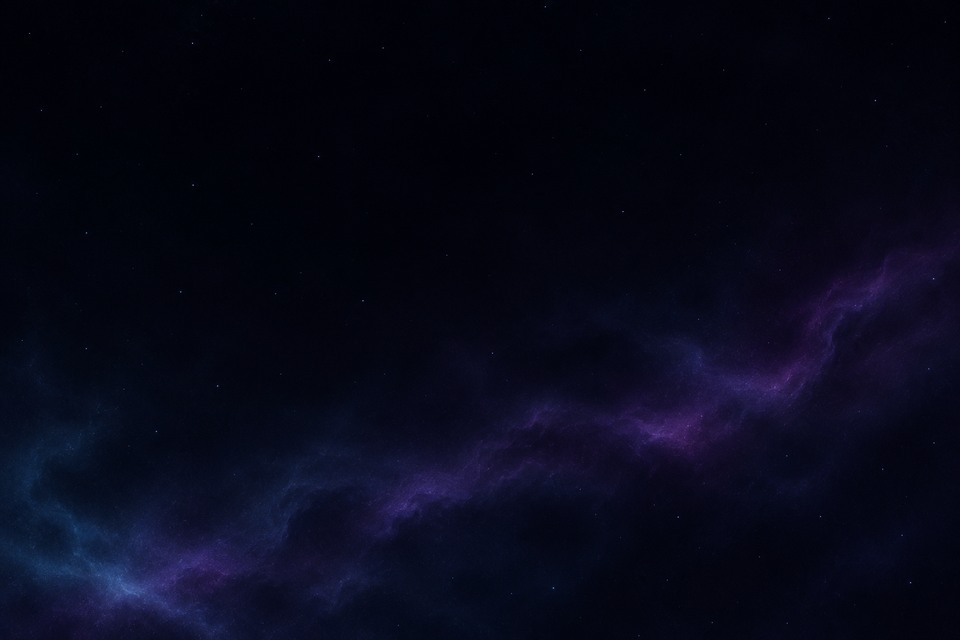
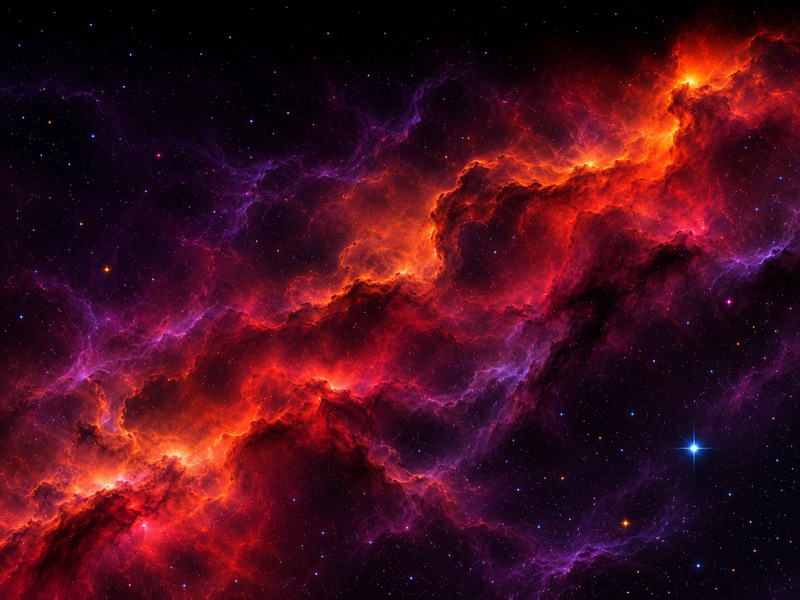
Обновил оформление и назначил буквенные клавиши

diff --git a/graphics.py b/graphics.py
@@ -10,7 +10,6 @@ from game import (
     ASTEROID_RADII,
     EXPLOSION_LIFETIME,
     HEIGHT,
-    START_LIVES,
     WIDTH,
     Game,
 )
@@ -20,23 +19,27 @@ ASSETS = Path(__file__).parent / "assets"
 
 # Скорость фонового слоя в пикселях в секунду и его непрозрачность.
 BACKGROUND_SPEED = 27
-BACKGROUND_OPACITY = 90
-BACKGROUND_ROCKS = 30
+BACKGROUND_OPACITY = 100
+BACKGROUND_ROCKS = 54
 
 # Каждая ячейка атласа содержит отдельный кадр анимации взрыва.
 EXPLOSION_FRAMES = 12
 EXPLOSION_TILE = 112
 
-# Заставка находится в центре. Её прямоугольник служит областью клика.
-SPLASH = pygame.Rect(0, 0, 506, 336)
+# Игровое поле справа от подсказок. Заставка в координатах поля.
+FIELD = pygame.Rect(216, 8, WIDTH, HEIGHT)
+WINDOW_SIZE = FIELD.right + 8, FIELD.bottom + 8
+SPLASH = pygame.Rect(0, 0, 400, 300)
 SPLASH.center = WIDTH // 2, HEIGHT // 2
+START_AREA = SPLASH.move(FIELD.topleft)
 
 # Цвета интерфейса.
 WHITE = (239, 247, 255)
-TEXT_SECONDARY = (177, 197, 223)
 CYAN = (117, 224, 252)
-LINE = (53, 76, 106)
-DARK = (9, 18, 34)
+HUD_GREEN = (70, 255, 53)
+WINDOW_COLOR = (240, 240, 240)
+SIDEBAR_TEXT = (36, 43, 55)
+SIDEBAR_BORDER = (163, 170, 180)
 
 
 def _ship_sprite(thrust: bool) -> pygame.Surface:
@@ -166,29 +169,41 @@ def _explosion_atlas() -> pygame.Surface:
     return atlas
 
 
-def _control_legend(font: pygame.font.Font) -> pygame.Surface:
-    """Подписать клавиши управления, рисуя стрелки независимо от шрифта."""
-    legend = pygame.Surface((364, 26), pygame.SRCALPHA)
-    for x, angle in ((2, 180), (28, 0), (151, -90)):
-        pygame.draw.rect(legend, LINE, (x, 2, 23, 22), 1, 4)
-        center = pygame.Vector2(x + 11, 13)
-        tail = center + pygame.Vector2(-5, 0).rotate(angle)
-        tip = center + pygame.Vector2(5, 0).rotate(angle)
-        wing_top = center + pygame.Vector2(1, -4).rotate(angle)
-        wing_bottom = center + pygame.Vector2(1, 4).rotate(angle)
-        pygame.draw.aaline(legend, CYAN, tail, tip)
-        pygame.draw.aalines(legend, CYAN, False, (wing_top, tip, wing_bottom))
-
-    pygame.draw.rect(legend, LINE, (227, 2, 80, 22), 1, 4)
-    for x, label in (
-        (58, "Поворот"),
-        (181, "Тяга"),
-        (235, "Пробел"),
-        (315, "Огонь"),
-    ):
-        text = font.render(label, True, TEXT_SECONDARY)
-        legend.blit(text, text.get_rect(midleft=(x, 13)))
-    return legend
+def _sidebar(font: pygame.font.Font) -> pygame.Surface:
+    """Подготовить панель подсказок слева от игрового поля."""
+    sidebar = pygame.Surface((FIELD.left - 12, HEIGHT)).convert()
+    sidebar.fill(WINDOW_COLOR)
+    width = sidebar.get_width() - 2
+    top = HEIGHT * 2 // 3
+    sections = (
+        (
+            "Управление",
+            (
+                ("W", "Разгон"),
+                ("A", "Поворот влево"),
+                ("D", "Поворот вправо"),
+                ("Пробел", "Выстрел"),
+            ),
+        ),
+        ("Старт", (("", "Щелчок по заставке"),)),
+    )
+    for title, rows in sections:
+        height = 15 + 22 * len(rows)
+        pygame.draw.rect(sidebar, SIDEBAR_BORDER, (1, top, width, height), 1)
+        heading = font.render(title, True, SIDEBAR_TEXT, WINDOW_COLOR)
+        sidebar.blit(heading, heading.get_rect(midleft=(10, top)))
+        for y, (key, label) in enumerate(rows, start=1):
+            row_top = top + 22 * y - 9
+            if key:
+                keycap = pygame.Rect(10, row_top - 2, 55, 18)
+                pygame.draw.rect(sidebar, (226, 230, 236), keycap)
+                pygame.draw.rect(sidebar, SIDEBAR_BORDER, keycap, 1)
+                cap = font.render(key, True, SIDEBAR_TEXT)
+                sidebar.blit(cap, cap.get_rect(center=keycap.center))
+            text = font.render(label, True, SIDEBAR_TEXT)
+            sidebar.blit(text, (73 if key else 10, row_top))
+        top += height + 16
+    return sidebar
 
 
 class Renderer:
@@ -196,7 +211,8 @@ class Renderer:
 
     def __init__(self, surface: pygame.Surface) -> None:
         """Загрузить фон и подготовить спрайты и шрифты."""
-        self.surface = surface
+        self.window = surface
+        self.surface = pygame.Surface((WIDTH, HEIGHT)).convert()
         self.background = pygame.image.load(ASSETS / "nebula.jpg").convert()
         asteroid = pygame.image.load(ASSETS / "asteroid.png").convert_alpha()
         self.asteroids = {
@@ -208,15 +224,11 @@ class Renderer:
         self.ships = (_ship_sprite(False), _ship_sprite(True))
         self.rocket = _rocket_sprite()
         self.explosions = _explosion_atlas()
-        self.label = pygame.font.Font(None, 23)
-        self.value = pygame.font.Font(None, 34)
-        self.title = pygame.font.Font(None, 68)
-        self.button = pygame.font.Font(None, 29)
-        self.hud = pygame.Surface((WIDTH, 84), pygame.SRCALPHA)
-        for y in range(self.hud.get_height()):
-            opacity = round(170 * (1 - y / self.hud.get_height()))
-            pygame.draw.line(self.hud, (*DARK, opacity), (0, y), (WIDTH, y))
-        self.controls = _control_legend(self.label)
+        self.hud = pygame.font.SysFont("arial,liberationsans", 27)
+        self.title = pygame.font.Font(None, 62)
+        self.title.set_italic(True)
+        self.label = pygame.font.Font(None, 24)
+        self.sidebar = _sidebar(pygame.font.Font(None, 17))
         self.panels = {
             (finished, hovered): self._splash_panel(finished, hovered)
             for finished in (False, True)
@@ -263,60 +275,47 @@ class Renderer:
         self._draw_hud(game)
         if not game.playing:
             self.surface.blit(self.panels[game.finished, hovered], SPLASH)
+        self.window.fill(WINDOW_COLOR)
+        pygame.draw.rect(self.window, (52, 52, 55), FIELD.inflate(4, 4), 2)
+        self.window.blit(self.sidebar, (6, FIELD.top))
+        self.window.blit(self.surface, FIELD)
 
     def _draw_hud(self, game: Game) -> None:
         """Нарисовать постоянные индикаторы жизней и очков над полем."""
-        self.surface.blit(self.hud, (0, 0))
-        lives = self.label.render("ЖИЗНИ", True, TEXT_SECONDARY)
-        score = self.label.render("ОЧКИ", True, TEXT_SECONDARY)
-        life_value = self.value.render(str(game.lives), True, WHITE)
-        score_value = self.value.render(str(game.score), True, WHITE)
-        self.surface.blit(lives, (27, 12))
-        self.surface.blit(life_value, (27, 33))
-        self.surface.blit(score, score.get_rect(topright=(WIDTH - 27, 12)))
-        self.surface.blit(
-            score_value, score_value.get_rect(topright=(WIDTH - 27, 33))
-        )
-
-        for index in range(START_LIVES):
-            x = 63 + index * 19
-            points = [(x, 39), (x - 6, 53), (x, 50), (x + 6, 53)]
-            color = CYAN if index < game.lives else LINE
-            pygame.draw.polygon(self.surface, color, points)
+        for caption, alignment in (
+            (f"Lives: {game.lives}", {"topleft": (80, 0)}),
+            (f"Score: {game.score}", {"topright": (WIDTH - 80, 0)}),
+        ):
+            text = self.hud.render(caption, True, HUD_GREEN)
+            shadow = self.hud.render(caption, True, (0, 15, 0))
+            rect = text.get_rect(**alignment)
+            self.surface.blit(shadow, rect.move(1, 1))
+            self.surface.blit(text, rect)
 
     def _splash_panel(self, finished: bool, hovered: bool) -> pygame.Surface:
         """Подготовить центральную панель запуска или повторной игры."""
         panel = pygame.Surface(SPLASH.size, pygame.SRCALPHA)
         center = SPLASH.width // 2
-        opacity = 208 if finished else 240
-        pygame.draw.rect(
-            panel, (*DARK, opacity), panel.get_rect(), border_radius=20
-        )
-        pygame.draw.rect(
-            panel, CYAN if hovered else LINE, panel.get_rect(), 1, 20
-        )
-        emblem = pygame.transform.rotozoom(self.asteroids[26], 20, 0.66)
-        orbit = pygame.Rect(0, 0, 56, 48)
-        orbit.center = center, 61
-        pygame.draw.arc(panel, CYAN, orbit, 0.1, 2.4, 2)
-        pygame.draw.arc(panel, CYAN, orbit, 3.0, 5.3, 2)
-        panel.blit(emblem, emblem.get_rect(center=(center, 61)))
+        panel.fill((15, 25, 77, 157 if hovered else 178))
+        border = (105, 147, 255) if hovered else (51, 76, 163)
+        pygame.draw.rect(panel, border, panel.get_rect(), 3)
 
-        title = self.title.render("Астероиды", True, WHITE)
-        panel.blit(title, title.get_rect(center=(center, 126)))
-        legend = (
-            self.label.render("Раунд завершён", True, TEXT_SECONDARY)
-            if finished
-            else self.controls
-        )
-        panel.blit(legend, legend.get_rect(center=(center, 179)))
+        title = self.title.render("АСТЕРОИДЫ", True, WHITE)
+        outline = self.title.render("АСТЕРОИДЫ", True, (40, 67, 146))
+        rect = title.get_rect(center=(center, 131))
+        for dx, dy in ((-3, 0), (3, 0), (0, -3), (0, 3), (2, 4)):
+            panel.blit(outline, rect.move(dx, dy))
+        panel.blit(title, rect)
+        if finished:
+            status = self.label.render("Раунд завершён", True, WHITE)
+            panel.blit(status, status.get_rect(center=(center, 86)))
 
-        rect = pygame.Rect(0, 0, 244, 52)
-        rect.center = center, 248
-        pygame.draw.rect(
-            panel, (172, 239, 255) if hovered else CYAN, rect, border_radius=9
-        )
-        action = "Играть снова" if finished else "Начать игру"
-        text = self.button.render(action, True, DARK)
-        panel.blit(text, text.get_rect(center=rect.center))
+        action = "ИГРАТЬ СНОВА" if finished else "ЩЁЛКНИТЕ ДЛЯ СТАРТА"
+        text = self.label.render(action, True, CYAN if hovered else WHITE)
+        rect = text.get_rect(center=(center, 190))
+        panel.blit(text, rect)
+        for edge, delta in ((rect.left - 12, -24), (rect.right + 12, 24)):
+            pygame.draw.line(
+                panel, border, (edge, 190), (edge + delta, 190), 2
+            )
         return panel

diff --git a/main.py b/main.py
@@ -2,24 +2,33 @@
 
 import pygame
 
-from game import HEIGHT, WIDTH, Game
-from graphics import SPLASH, Renderer
+from game import Game
+from graphics import START_AREA, WINDOW_SIZE, Renderer
 
 # Частота кадров, шаг физики и предел накопленного времени после задержки.
 FRAME_RATE = 60
 PHYSICS_STEP = 1 / 120
 MAX_FRAME_TIME = 0.25
 
+# Физические клавиши работают при любой активной раскладке.
+CONTROLS = {
+    pygame.KSCAN_A: pygame.K_a,
+    pygame.KSCAN_D: pygame.K_d,
+    pygame.KSCAN_W: pygame.K_w,
+    pygame.KSCAN_SPACE: pygame.K_SPACE,
+}
+
 
 def run() -> None:
     """Открыть окно, обработать ввод и запустить игру."""
     pygame.display.set_caption("Астероиды")
-    screen = pygame.display.set_mode((WIDTH, HEIGHT))
+    screen = pygame.display.set_mode(WINDOW_SIZE)
     renderer = Renderer(screen)
     game = Game()
     clock = pygame.time.Clock()
     accumulated = 0.0
     fire_queued = False
+    held = set()
 
     while True:
         elapsed = min(clock.tick(FRAME_RATE) / 1000, MAX_FRAME_TIME)
@@ -27,30 +36,37 @@ def run() -> None:
         for event in pygame.event.get():
             if event.type == pygame.QUIT:
                 return
-            if event.type == pygame.KEYDOWN:
-                if event.key == pygame.K_ESCAPE:
+            if event.type in (pygame.KEYDOWN, pygame.KEYUP):
+                key = CONTROLS.get(getattr(event, "scancode", None), event.key)
+                if event.type == pygame.KEYUP:
+                    held.discard(key)
+                    continue
+                if key == pygame.K_ESCAPE:
                     return
-                if event.key == pygame.K_SPACE and game.playing:
+                if key == pygame.K_SPACE and game.playing:
                     fire_queued = True
+                held.add(key)
+            if event.type == pygame.WINDOWFOCUSLOST:
+                held.clear()
+                fire_queued = False
             if (
                 event.type == pygame.MOUSEBUTTONDOWN
                 and event.button == 1
                 and not game.playing
-                and SPLASH.collidepoint(event.pos)
+                and START_AREA.collidepoint(event.pos)
             ):
                 game.start()
                 accumulated = 0.0
                 fire_queued = False
 
-        keys = pygame.key.get_pressed()
-        turn = int(keys[pygame.K_RIGHT]) - int(keys[pygame.K_LEFT])
+        turn = int(pygame.K_d in held) - int(pygame.K_a in held)
         while accumulated >= PHYSICS_STEP:
-            fire = fire_queued or keys[pygame.K_SPACE]
-            game.update(PHYSICS_STEP, turn, keys[pygame.K_UP], fire)
+            fire = fire_queued or pygame.K_SPACE in held
+            game.update(PHYSICS_STEP, turn, pygame.K_w in held, fire)
             accumulated -= PHYSICS_STEP
             fire_queued = False
 
-        hovered = not game.playing and SPLASH.collidepoint(
+        hovered = not game.playing and START_AREA.collidepoint(
             pygame.mouse.get_pos()
         )
         renderer.draw(game, elapsed, hovered)

diff --git a/game.py b/game.py
@@ -6,8 +6,8 @@ from random import Random
 from pygame.math import Vector2
 
 # Размер тороидального поля в пикселях.
-WIDTH = 960
-HEIGHT = 640
+WIDTH = 800
+HEIGHT = 600
 
 # Число жизней на заставке и в начале каждого раунда.
 START_LIVES = 3

diff --git a/README.md b/README.md
@@ -13,7 +13,7 @@
 
 ## Функциональные возможности
 
-- Старт по щелчку на центральной заставке.
+- Старт по щелчку на центральной заставке. Подсказки слева от поля.
 - Вращение корабля, разгон с включённым двигателем и плавное торможение.
 - Астероиды со случайным положением, скоростью и вращением.
 - Ракеты, которые вылетают из носа и исчезают по истечении времени полёта.
@@ -76,10 +76,14 @@
 | Клавиша или действие | Результат |
 | --- | --- |
 | Щелчок левой кнопкой внутри заставки | Начать новый раунд |
-| `←` / `→` | Повернуть корабль влево или вправо |
-| `↑` | Включить двигатель и разогнаться |
+| `A` | Повернуть корабль влево |
+| `D` | Повернуть корабль вправо |
+| `W` | Включить двигатель и разогнаться |
 | `Пробел` | Стрелять в направлении носа корабля |
 | `Esc` | Закрыть игру |
+
+При русской раскладке используются те же физические клавиши `Ф`, `В` и `Ц`
+для поворота влево, поворота вправо и разгона соответственно.
 
 ## Структура проекта
 
@@ -105,8 +109,9 @@ asteroids/
 
 ## Пример использования
 
-Откройте игру и щёлкните «Начать игру». Поверните корабль к астероиду
-и нажмите пробел. При попадании появится взрыв, а счёт увеличится на одно
-очко. При столкновении с астероидом корабль возродится в центре, а запас
-жизней уменьшится. Столкновение при нулевом запасе завершит раунд.
+Откройте игру и щёлкните по синей заставке. Клавишами `A` и `D` поверните
+корабль к астероиду и нажмите пробел. При попадании появится взрыв,
+а счёт увеличится на одно очко. При столкновении с астероидом корабль
+возродится в центре, а запас жизней уменьшится. Столкновение при нулевом
+запасе завершит раунд.
 Счёт останется на экране до запуска следующего раунда.
